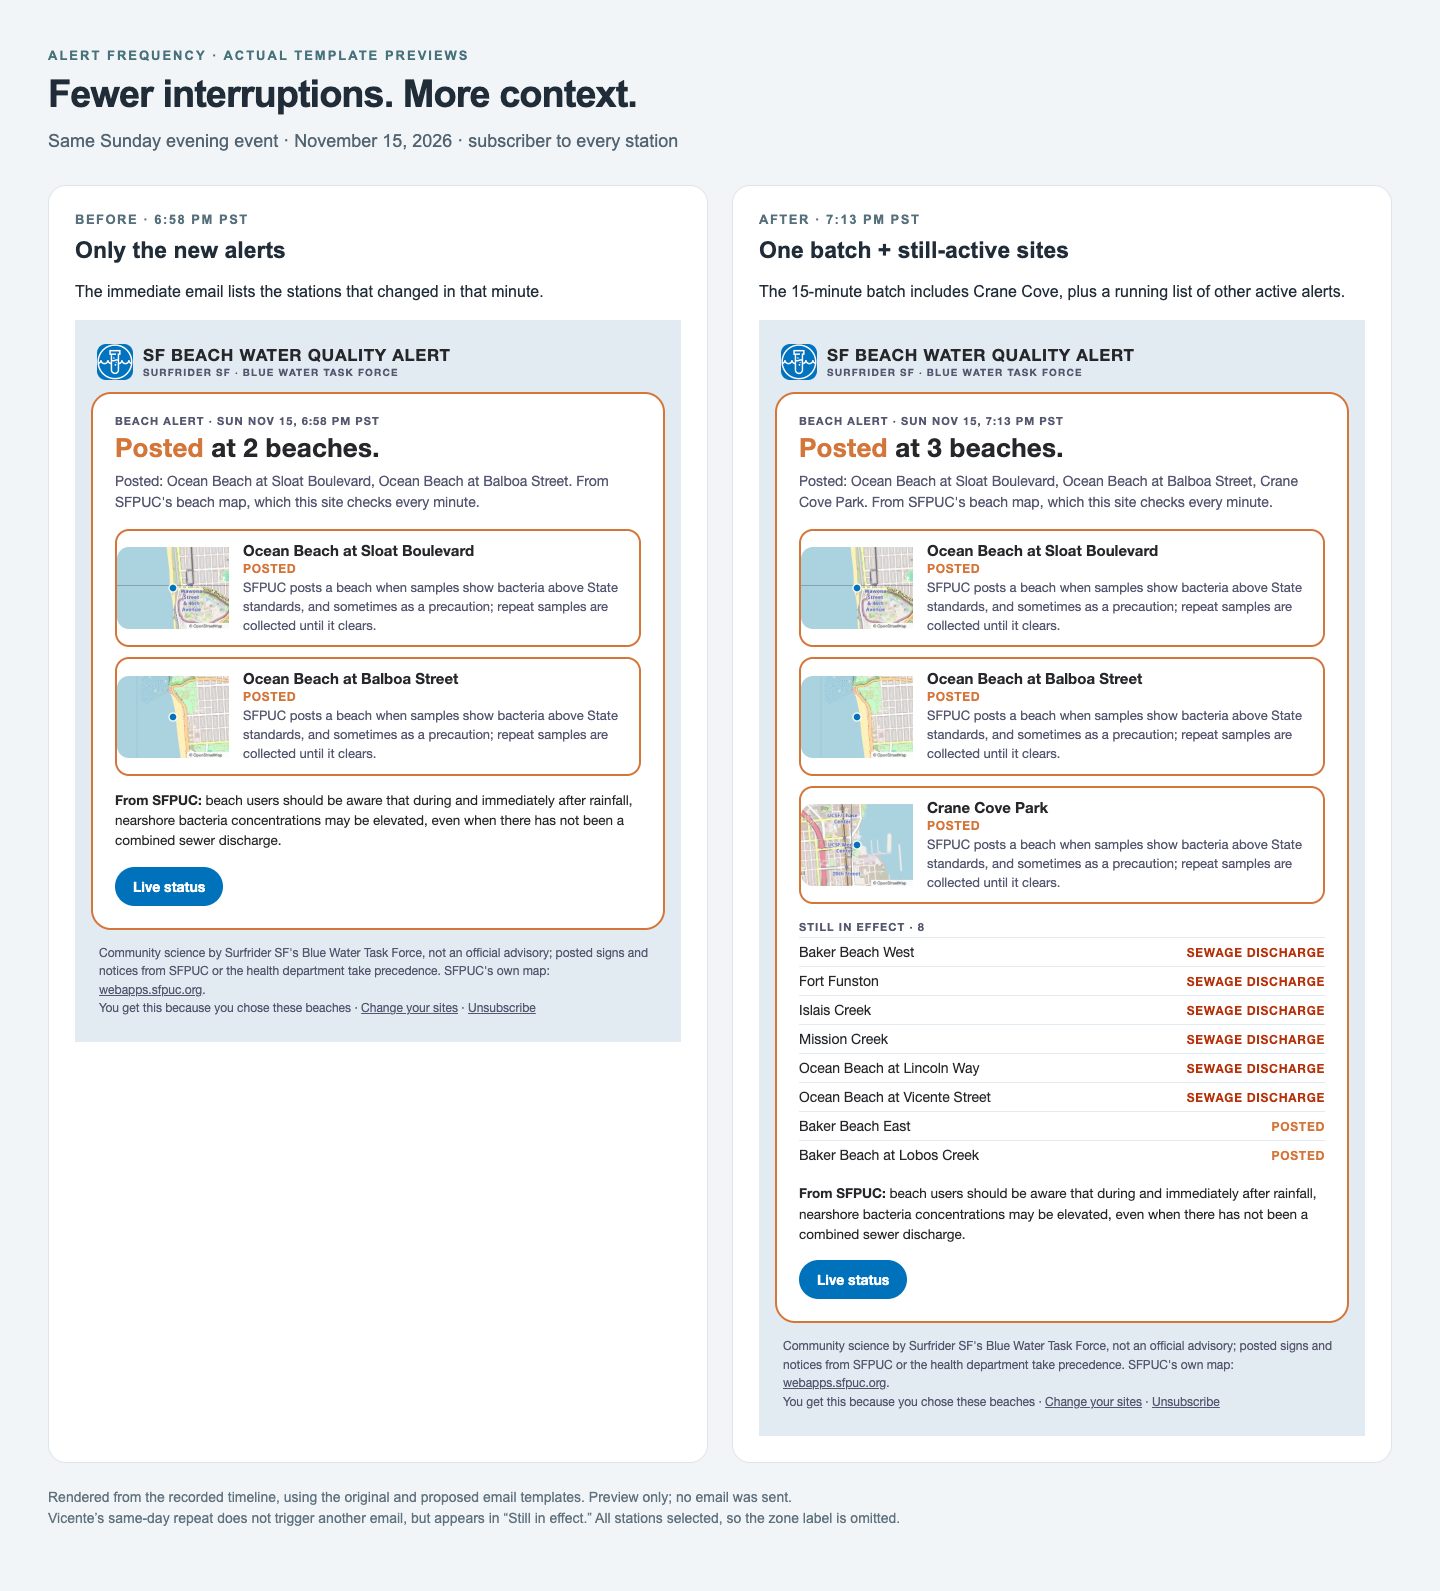
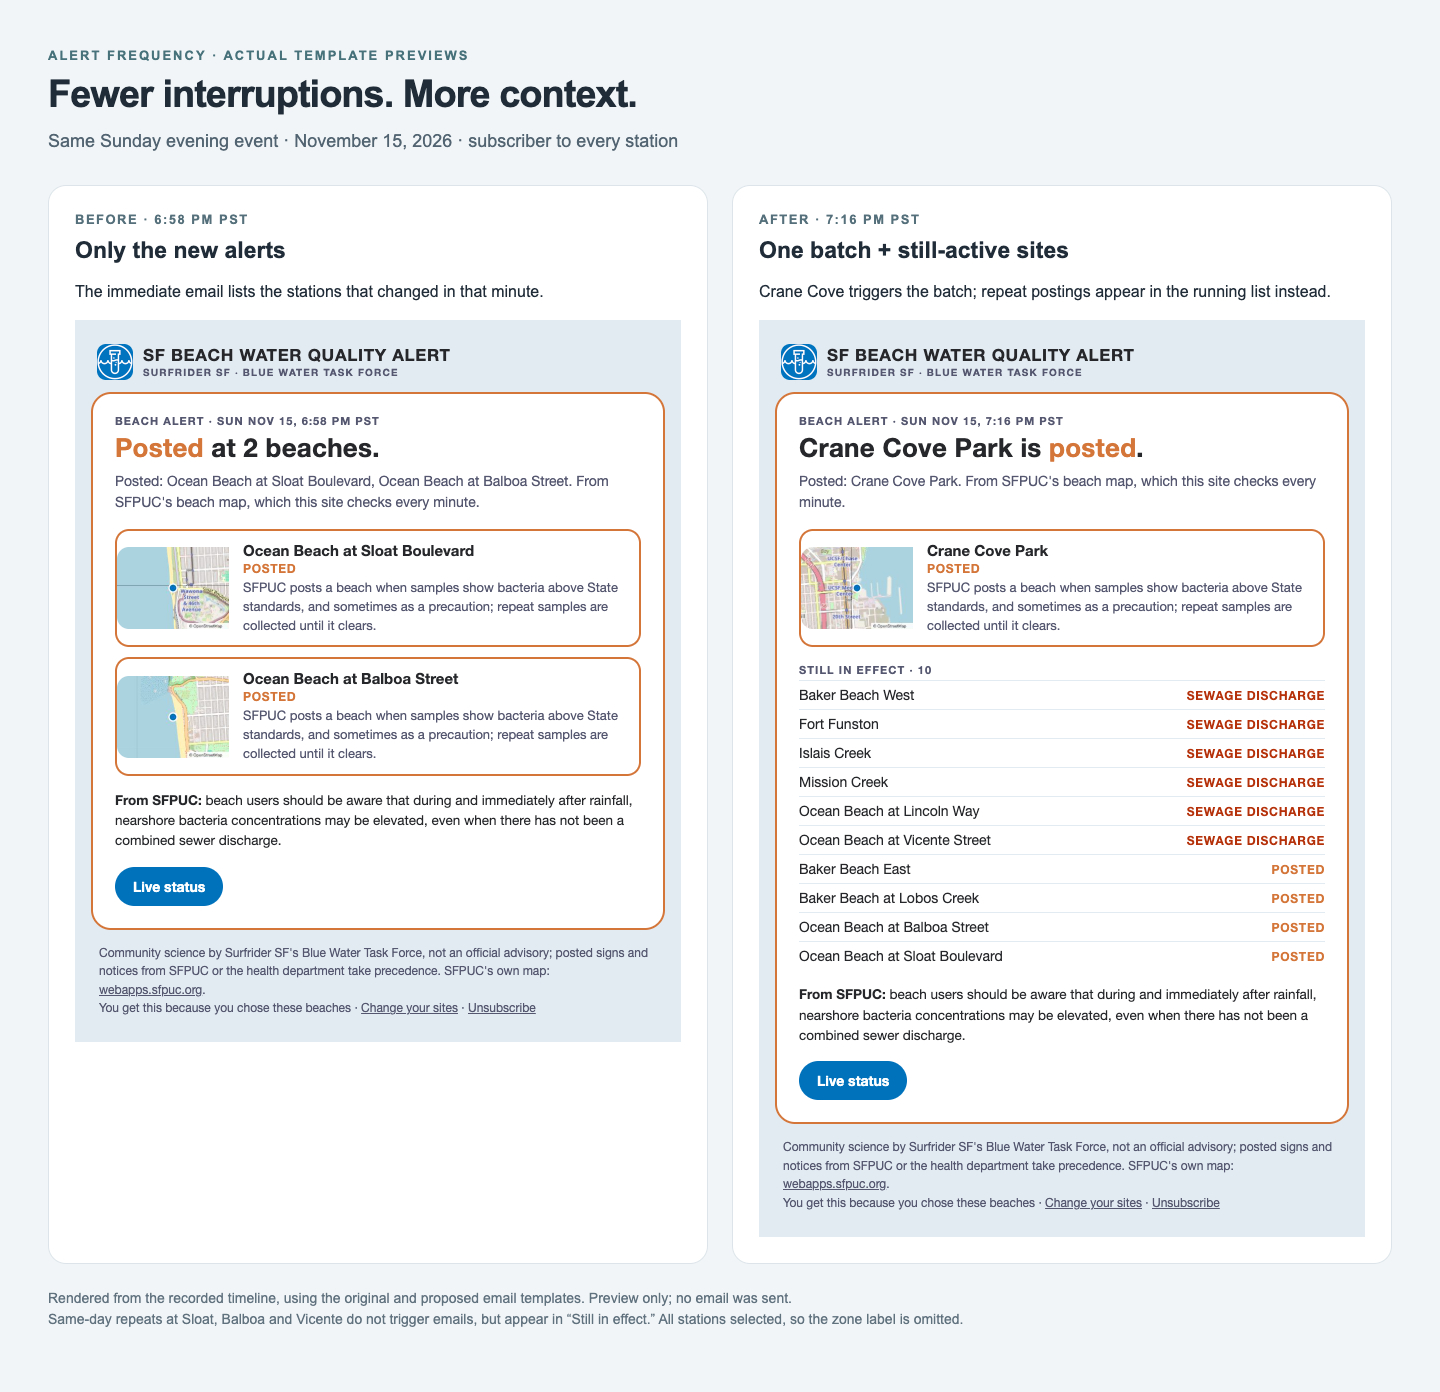
Suppress same-day posting repeats while preserving discharge escalations

Changed region(s): [[0.0312, 0.1236, 0.9688, 0.9576], [0.0312, 0.0309, 0.5, 0.7723]]

diff --git a/app/templates/alerts/email_sim.html b/app/templates/alerts/email_sim.html
@@ -94,7 +94,7 @@
       <label class="opt"><input type="radio" name="content" value="running"{% if s.content == 'running' %} checked{% endif %}> Running list <small>(+ still in effect)</small></label>
     </fieldset>
     <fieldset><legend>Rules</legend>
-      <label class="opt"><input type="checkbox" name="same_day" value="on"{% if s.same_day %} checked{% endif %}> Same-day rule <small>(no repeat discharge email)</small></label>
+      <label class="opt"><input type="checkbox" name="same_day" value="on"{% if s.same_day %} checked{% endif %}> Same-day rule <small>(no repeat posting or discharge email)</small></label>
     </fieldset>
     <div><button type="submit">Count emails</button></div>
   </form>
@@ -110,7 +110,7 @@
       {% if diff %}<div class="delta">{{ "%+d" % diff }} ({{ "%+d" % ((diff * 100 / r.now.total) | round | int) if r.now.total else "" }}%)</div>{% endif %}
     </div>
     <div class="total"><div class="n">{{ r.plan.longest_wait }} min</div><div class="k">longest an alert waits</div></div>
-    <div class="total"><div class="n">{{ r.plan.skipped | length }}</div><div class="k">discharges the same-day rule skips</div></div>
+    <div class="total"><div class="n">{{ r.plan.skipped | length }}</div><div class="k">status repeats the same-day rule skips</div></div>
   </div>
 
   <section class="panel">
@@ -146,7 +146,7 @@
             </details>
             {%- endif %}</td></tr>
         {%- else %}{% set c = row.change %}
-        <tr class="skipped"><td class="n">{{ fmt_time(c.at) }}</td><td>skipped</td><td>{{ c.station_name }} · {{ labels[c.to] }}: its discharge flag was already up earlier that day</td></tr>
+        <tr class="skipped"><td class="n">{{ fmt_time(c.at) }}</td><td>skipped</td><td>{{ c.station_name }} · {{ labels[c.to] }}: this {{ labels[c.to] }} status was already present earlier that day</td></tr>
         {%- endif %}
         {%- endfor %}
       </tbody>

diff --git a/tests/test_email_sim.py b/tests/test_email_sim.py
@@ -29,17 +29,17 @@ def storm_week():
     return E.changes_from_windows(json.loads(FIXTURE.read_text())["stations"])
 
 
-def test_the_storm_week_audit_14_today_11_with_the_same_day_rule_5_with_a_15_minute_hold():
+def test_the_storm_week_audit_14_today_10_with_the_same_day_rule_5_with_a_15_minute_hold():
     """docs/alerts-frequency.md, "Too many alert emails": someone subscribed to every station, 11/13–11/17."""
     c, every = storm_week(), sorted(E.NAME_OF)
     now = E.simulate(c, every, START, END)
     rule = E.simulate(c, every, START, END, same_day=True)
     held = E.simulate(c, every, START, END, 15, "first", same_day=True)
-    assert (now["total"], rule["total"], held["total"]) == (14, 11, 5)
+    assert (now["total"], rule["total"], held["total"]) == (14, 10, 5)
     assert {d.isoformat(): n for d, n in now["by_day"].items()} == {"2026-11-13": 6, "2026-11-15": 5, "2026-11-17": 3}
-    assert {d.isoformat(): n for d, n in rule["by_day"].items()} == {"2026-11-13": 6, "2026-11-15": 4, "2026-11-17": 1}
+    assert {d.isoformat(): n for d, n in rule["by_day"].items()} == {"2026-11-13": 6, "2026-11-15": 3, "2026-11-17": 1}
     skipped = [(x.station_id, x.at.astimezone(PT).strftime("%m/%d %H:%M")) for x in rule["skipped"]]
-    assert skipped == [("4603", "11/15 19:03"), ("4605", "11/17 09:11"), ("4601", "11/17 09:27")]   # Vicente, Lincoln, Fort Funston
+    assert skipped == [("4602", "11/15 18:58"), ("4604", "11/15 18:58"), ("4603", "11/15 19:03"), ("4605", "11/17 09:11"), ("4601", "11/17 09:27")]   # Vicente, Lincoln, Fort Funston
     assert held["longest_wait"] == 15
 
 
@@ -76,7 +76,19 @@ def test_the_same_day_rule_skips_an_on_off_on_but_not_a_flag_back_the_next_day()
     next_day = [ch(14, 7, 0, "v", "ok", "cso"), ch(14, 18, 0, "v", "cso", "ok"), ch(15, 9, 0, "v", "ok", "cso")]
     assert E.simulate(next_day, ["v"], START, END, same_day=True)["total"] == 2 and not E.simulate(next_day, ["v"], START, END, same_day=True)["skipped"]
     posted_only = [ch(14, 7, 0, "p", "ok", "posted"), ch(14, 8, 0, "p", "posted", "ok"), ch(14, 9, 0, "p", "ok", "posted")]
-    assert E.simulate(posted_only, ["p"], START, END, same_day=True)["total"] == 2   # the rule is for discharges only
+    assert E.simulate(posted_only, ["p"], START, END, same_day=True)["total"] == 1   # repeated postings are suppressed too
+
+
+def test_posting_memory_is_separate_from_discharge_and_resets_next_day():
+    c = [ch(13, 8, 0, "p", "ok", "posted"), ch(13, 9, 0, "p", "posted", "ok"),
+         ch(13, 10, 0, "p", "ok", "posted"), ch(13, 11, 0, "p", "posted", "cso"),
+         ch(13, 12, 0, "p", "cso", "ok"), ch(14, 0, 1, "p", "ok", "posted")]
+    r = E.simulate(c, ["p"], START, END, same_day=True)
+    assert [e.stations for e in r["emails"]] == [[("p", "posted")], [("p", "cso")], [("p", "posted")]]
+    assert len(r["skipped"]) == 1 and r["skipped"][0].to == "posted"
+    carry = [ch(13, 8, 0, "p", "ok", "posted"), ch(14, 8, 0, "p", "posted", "ok"),
+             ch(14, 9, 0, "p", "ok", "posted")]
+    assert E.simulate(carry, ["p"], START, END, same_day=True)["total"] == 1
 
 
 def test_a_flag_up_before_the_range_still_counts_for_the_same_day_rule():
@@ -124,7 +136,7 @@ def test_a_running_list_adds_what_is_still_in_effect_and_keeps_the_count():
     assert tue["email"].stations == [("Crissy Field Beach East", "posted")]
     assert tue["still"] == [("Islais Creek", "cso"), ("Ocean Beach at Vicente Street", "cso"),   # discharges first; Lincoln and
                             ("Crane Cove Park", "posted"), ("Mission Creek", "posted")]           # Fort Funston had cleared by 8:34
-    sun = next(r for r in run["rows"] if r["kind"] == "email" and r["at"] == at(15, 19, 13))
+    sun = next(r for r in run["rows"] if r["kind"] == "email" and r["at"] == at(15, 19, 16))
     assert ("Ocean Beach at Vicente Street", "cso") in sun["still"]   # the discharge the same-day rule didn't email still shows here
     p = tue["preview"]
     assert "Still in effect &middot; " in p["html_body"] and p["html_body"].index("Still in effect") < p["html_body"].index("From SFPUC:")
@@ -140,8 +152,8 @@ def test_the_page_renders_and_sits_behind_the_passphrase():
     with app.test_request_context("/alerts/email-sim"):
         html = E.render_page(storm_week(), settings)
     assert "<h1>Email simulator</h1>" in html and 'href="/alerts/email-sim" class="on" aria-current="page"' in html
-    assert '<div class="n">14</div>' in html and '<div class="n">5</div>' in html and html.count('class="skipped"') == 3
-    assert "Ocean Beach at Lincoln Way · sewage discharge: its discharge flag was already up earlier that day" in html
+    assert '<div class="n">14</div>' in html and '<div class="n">5</div>' in html and html.count('class="skipped"') == 5
+    assert "Ocean Beach at Lincoln Way · sewage discharge: this sewage discharge status was already present earlier that day" in html
     with app.test_client() as c:
         locked = c.get("/alerts/email-sim").data.decode()
         assert 'name="next" value="/alerts/email-sim"' in locked and "<h1>Admin</h1>" in locked

diff --git a/features/alerts/email_sim.py b/features/alerts/email_sim.py
@@ -17,8 +17,8 @@ nothing. The policy knobs (production activation requires the alert-frequency mi
   hold        wait this many minutes after a change and send one email for everything that changed meanwhile.
   window      "first": the window starts at the first change and doesn't move, so an alert waits at most the hold.
               "restart": every new change restarts the clock; the email goes once things are quiet for the hold.
-  same-day    a station that already had a discharge flag earlier the same Pacific day doesn't email a discharge
-              again that day. A flag that comes back the next day emails as usual.
+  same-day    suppress a return to the same status (posted or discharge) within a Pacific day.
+              Each status is tracked separately, so a first posted → discharge escalation still alerts.
 """
 from __future__ import annotations
 
@@ -110,16 +110,16 @@ def simulate(changes: list[Change], station_ids, start: datetime, end: datetime,
     Changes before ``start`` still count for the same-day rule (a flag that was up that morning)."""
     wanted = set(station_ids)
     hold = timedelta(minutes=max(0, int(hold_minutes)))
-    discharge_days: dict[str, set] = {}
+    status_days: dict[tuple[str, str], set] = {}
     triggers, skipped = [], []
     for c in changes:
         if c.station_id in wanted and start <= c.at < end and c.worse:
-            if same_day and c.to == "cso" and c.day in discharge_days.get(c.station_id, ()):
+            if same_day and c.day in status_days.get((c.station_id, c.to), ()):
                 skipped.append(c)
             else:
                 triggers.append(c)
-        if "cso" in (c.frm, c.to):
-            discharge_days.setdefault(c.station_id, set()).add(c.day)
+        for status in {c.frm, c.to} & {"posted", "cso"}:
+            status_days.setdefault((c.station_id, status), set()).add(c.day)
 
     emails: list[Email] = []
     for c in triggers:
@@ -249,7 +249,7 @@ def run(changes: list[Change], settings: dict) -> dict:
     while d <= settings["to"]:
         days.append({"day": d, "now": now["by_day"].get(d, 0), "plan": plan["by_day"].get(d, 0)})
         d += timedelta(days=1)
-    # one list in time order: the proposal's emails, and the discharges the same-day rule skipped
+    # one list in time order: the proposal's emails, and the status repeats the same-day rule skipped
     running = settings.get("content") == "running"
     rows = []
     for i, e in enumerate(plan["emails"]):

diff --git a/docs/alerts-frequency-rollout.md b/docs/alerts-frequency-rollout.md
@@ -5,7 +5,7 @@
 The Admin simulator and live SQL policy share the proposed behavior:
 
 - Real escalations enter `alert_pending`, one row per subscriber. The first change fixes `due_at` at 15 minutes later. Further changes join that window without extending it. Each station appears at its worst status in the batch, matching the simulator. An event exactly at the deadline joins; a later event starts a new window.
-- `alert_discharge_day` remembers the last Pacific calendar day a real discharge was observed. A discharge carried over from yesterday counts today, even if today's first read clears it. Same-day repeats are logged but excluded from new batches. Postings remain eligible. Existing real PG history seeds today's memory during installation.
+- `alert_status_day` remembers the last Pacific calendar day each real status (posted or discharge) was observed, keyed separately by station and status. A status carried over from yesterday counts today, even if today's first read clears it. Same-day repeats are logged but excluded from new batches. Repeat postings are suppressed too; a first escalation from posted to discharge remains eligible. Existing real PG history seeds today's memory during installation.
 - At send time the dispatcher rechecks active subscriptions and current selected stations. The additional running list uses current real station state, excludes the batch's own stations, and includes suppressed discharges. Its heading uses the subscriber's stored zone selection, omitted for all 20 sites. The shared Python helper and SQL renderer produce the same HTML/text/SMS section.
 - Targeted simulations remain immediate and isolated from the real queue and day memory. Manual Python senders retain their existing immediate behavior. The optional Python watcher remains a detection reference, not a mirror of batched delivery counts; do not enable it as a second live sender.
 - Status transition logging remains immediate, preserving replay and event end times. Queued transitions use channel `queued`; actual sends get separate `pg_live_batch` / `batch_delivery` log entries linked to delivery records by the existing trigger. Renderer metadata is `alerts-frequency` for this SQL dispatcher.
@@ -13,7 +13,7 @@ The Admin simulator and live SQL policy share the proposed behavior:
 
 ## Verification
 
-The offline PostgreSQL integration harness applies the SQL to PGlite, with fake HTTP transport and synthetic subscribers. No production credentials, subscriptions, or email sends are used. It verifies the fixed deadline, boundary joining, later-window separation, repeat suppression, overnight carryover, next-day eligibility, subscription changes and unsubscribe during the hold, missing credentials/retry, duplicate flush prevention, targeted simulations, off/shadow mode, rendering parity and role permissions. The actual Nov 13–17 fixture replay yields **5 messages**, matching the simulator's reduction from 14.
+The offline PostgreSQL integration harness applies the SQL to PGlite, with fake HTTP transport and synthetic subscribers. No production credentials, subscriptions, or email sends are used. It verifies the fixed deadline, boundary joining, later-window separation, repeat suppression, overnight carryover, next-day eligibility, subscription changes and unsubscribe during the hold, missing credentials/retry, duplicate flush prevention, targeted simulations, off/shadow mode, rendering parity and role permissions. The actual Nov 13–17 fixture replay yields **5 messages**, matching the simulator's reduction from 14. Same-day suppression alone now produces 10 messages (previously 11 with discharge-only suppression).
 
 Run from the repository root:
 
@@ -39,7 +39,7 @@ Python requires the repository dependencies. Tests also pass using the existing 
 
 A successful fresh feed read triggers flushing. During a feed outage a batch remains pending, so actual delivery can exceed 15 minutes; the next successful read supplies fresh running-list context. Missing sender credentials also retain the batch. The queue is removed after handing a message to pg_net, using existing provider outcome tracking; it does not add automatic retries for downstream provider failures. Transactional locking prevents duplicate queue flushes, not provider-level exactly-once delivery.
 
-As in the simulator, a batch reports the worst change observed within its window, even if that station subsequently clears; the additional running list reflects send-time state. Clears alone do not generate an email. Same-day suppression can hide a genuinely separate discharge later that day (the recorded Vicente case); this is the explicitly selected calendar-day policy, not an episode detector.
+As in the simulator, a batch reports the worst change observed within its window, even if that station subsequently clears; the additional running list reflects send-time state. Clears alone do not generate an email. Same-day suppression can hide a genuinely separate posting or discharge later that day (the recorded Vicente case); this is the explicitly selected calendar-day policy, not an episode detector.
 
 For rollback, set `watcher_config.mode` to `off`, save the pending rows and function definitions, and restore the prior `bwtf_process_payload`, `bwtf_log_escalations` (011) and `bwtf_dispatch_live` (021) definitions. Review/dispose of pending batches explicitly before resuming `live`; don't silently replay them. Leave the new tables in place for audit until the rollback is confirmed. Restoring those functions returns immediate delivery; changing the website deployment alone does not roll back SQL.
 

diff --git a/docs/alerts-frequency.md b/docs/alerts-frequency.md
@@ -5,7 +5,11 @@ The simulator, email previews and SQL policy are implemented on this branch. Pro
 
 The original feed recordings and broader discharge observations remain on the source branch. References below to `feed/changes.log` refer to that branch's `docs/discharge-observations/feed/changes.log`.
 
-## Too many alert emails on a storm day
+## Current policy update
+
+Same-day suppression now covers **both postings and discharges**, tracked separately. A first posted → discharge escalation still alerts. A return to either status on the next Pacific day is eligible again. The Nov 13–17 replay is now **14 original / 10 with same-day suppression / 5 with suppression plus the 15-minute hold**. Two additional repeats are suppressed: Sloat and Balboa postings at 6:58pm on Nov 15. The evening batch starts with Crane Cove at 7:01pm and sends at 7:16pm; the suppressed sites appear in “Still in effect.”
+
+## Original proposal: too many alert emails on a storm day
 - Because our watcher checks so often, a storm day sends tons of emails.
 - SFPUC sends far fewer updates (e.g. one morning posting email covering all three Baker sites), so subscribers aren't spammed.
 - To consider: batching or throttling our alerts (e.g. one email per status change per area, or a daily cap) so a storm day doesn't flood people.
